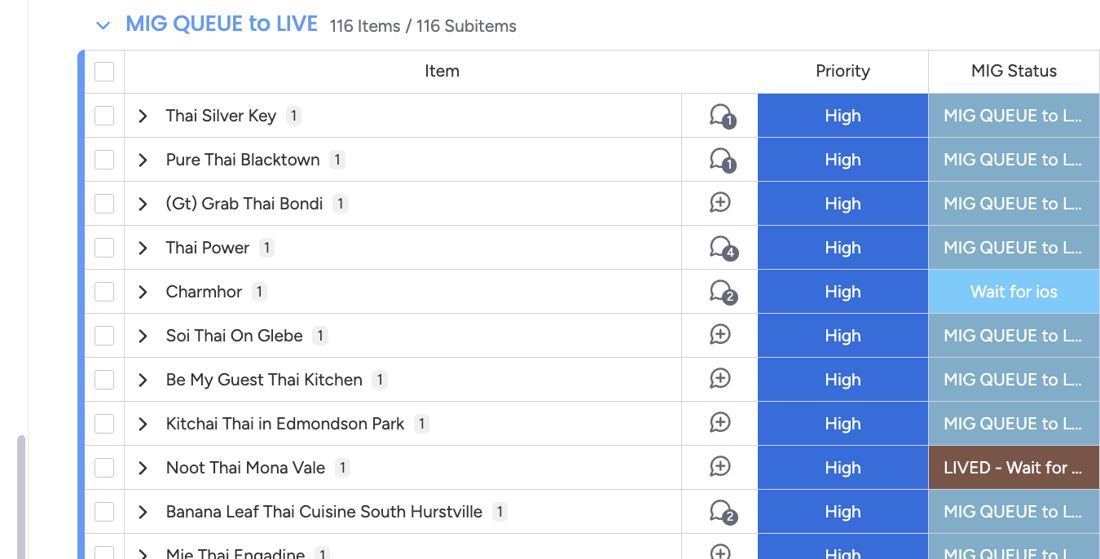
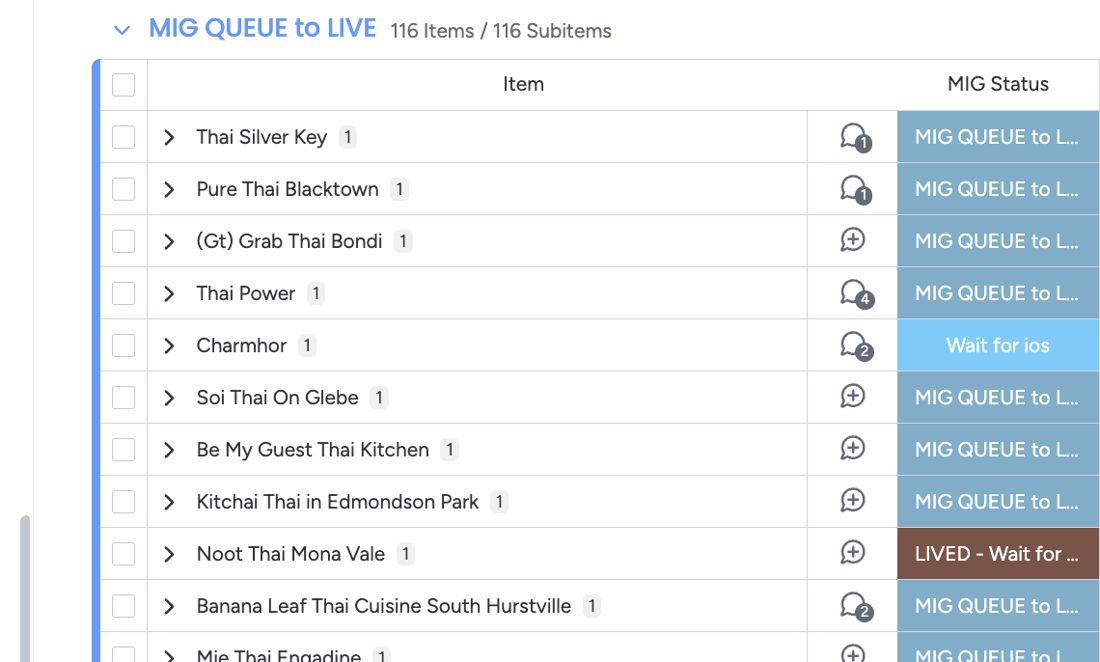
LIVE Process Flow: side-by-side example images equal size and aligned
Claude-Session: https://claude.ai/code/session_01JYsAYE7uSS4EkBM6wotzCb

diff --git a/style.css b/style.css
@@ -503,4 +503,4 @@ html,body{overflow-x:clip}
 
 .webex{margin-top:12px}.webex img{width:100%;border-radius:10px;border:1px solid var(--line);cursor:zoom-in;margin-top:4px;display:block}
 .flyc .webex img{max-height:420px;object-fit:contain;background:#F1F5F9}
-.sp .webex img{height:380px;object-fit:cover;object-position:top left}
+.sp{display:flex;flex-direction:column}.sp .webex{margin-top:auto;padding-top:12px}.sp .webex img{height:auto;aspect-ratio:1100/662;object-fit:cover;object-position:top center;background:#fff}
